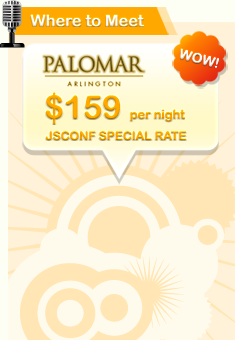
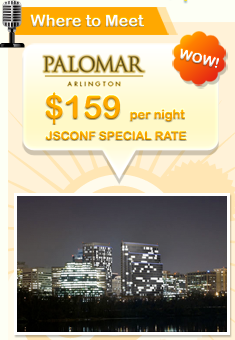
Adding rest of details.

diff --git a/src/stylesheets/application.sass b/src/stylesheets/application.sass
@@ -128,6 +128,11 @@ li#about a
   :width 461px
   :margin-left 14px
   :float left
+#featured_speakers a
+  :display block
+  :margin 0px 0px 12px 12px
+  :float left
+
   
 #featured_speakers .speakers
   :background #e3eff1
